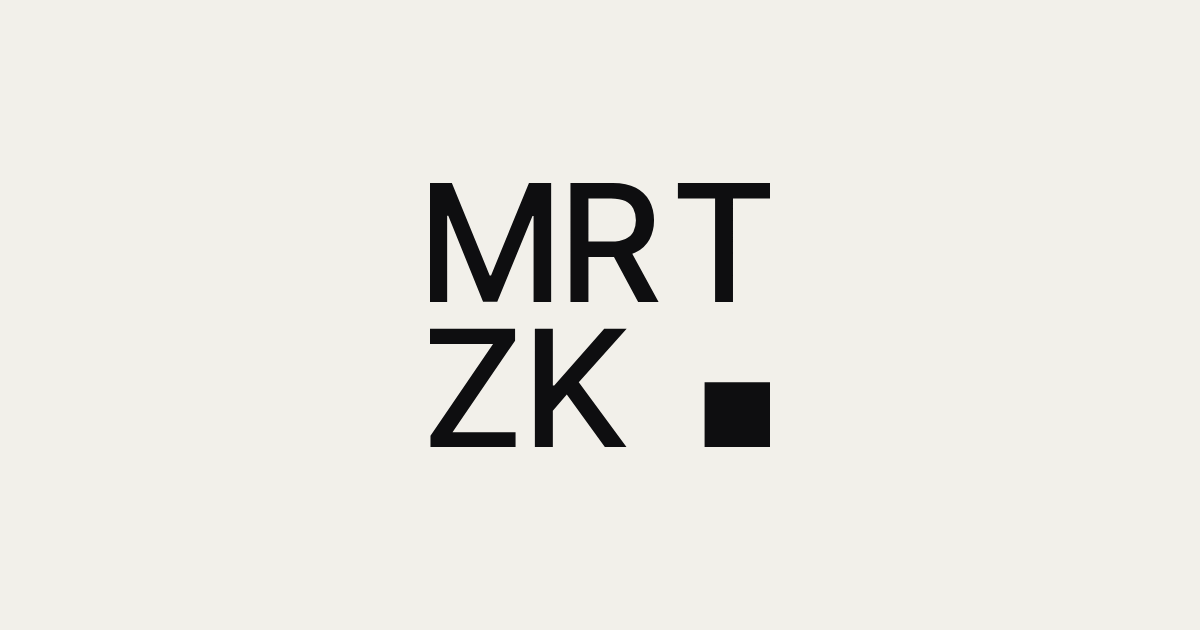
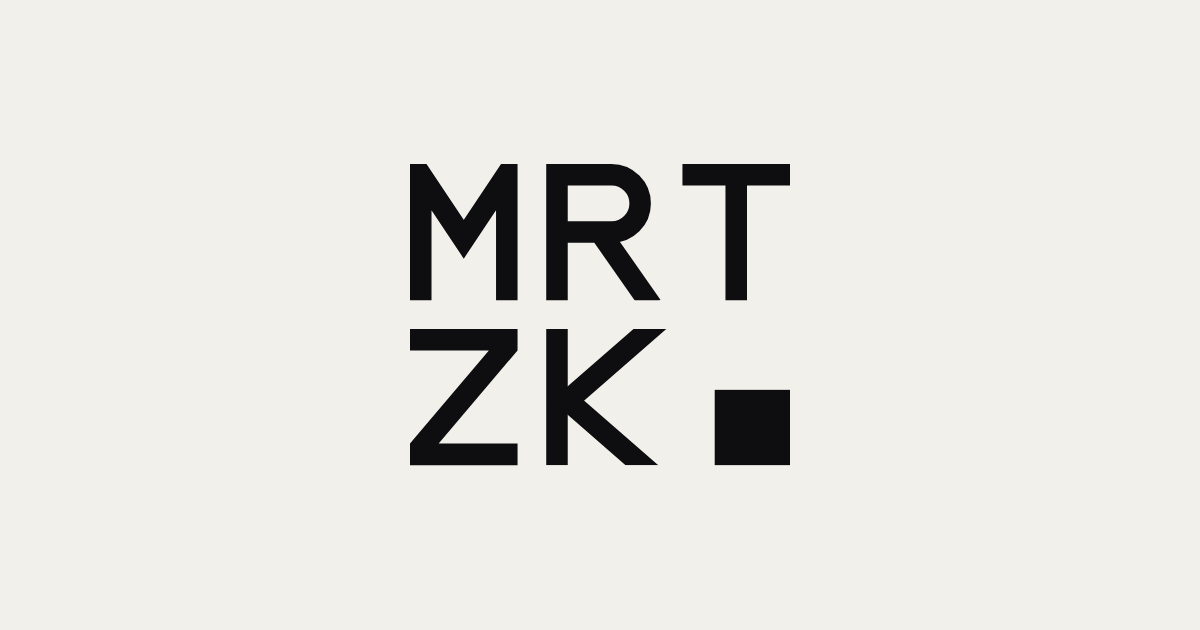
Use the original MRTZK monogram SVG files
Replace the redrawn approximation with the supplied mark and tile
SVGs in the favicon, icons, share image and on-page logo.

Claude-Session: https://claude.ai/code/session_01DwrwhGqewnAYTXEkSiZ8Jd

diff --git a/index.html b/index.html
@@ -47,9 +47,22 @@
     </nav>
   </header>
 
-  <!-- MRT/ZK grid monogram, defined once and reused -->
+  <!-- MRT/ZK grid monogram (from assets/logo-mark.svg), defined once and reused -->
   <svg width="0" height="0" style="position:absolute" aria-hidden="true">
-    <symbol id="mark" viewBox="0 0 228.74 178.00"><path fill="currentColor" d="M0 0H14.71L40.16 62.17H41.07L66.58 0H81.5V80H69.69V22.12H68.94L45.26 79.89H35.7L12.3 22.07H11.54V80H0ZM94.5 80V0H123.07Q132.36 0 138.48 3.19Q144.6 6.39 147.66 12.05Q150.72 17.72 150.72 25.13Q150.72 32.43 147.66 38.01Q144.6 43.6 138.48 46.66Q137.35 47.19 136.11 47.68L153.78 80H140.03L123.77 49.72Q123.39 49.72 122.96 49.72H106.58V80ZM106.58 39.41H121.83Q127.79 39.41 131.47 37.69Q135.15 35.97 136.84 32.81Q138.53 29.64 138.53 25.13Q138.53 20.56 136.81 17.26Q135.09 13.96 131.42 12.16Q127.74 10.36 121.78 10.36H106.58ZM166.78 10.36V0H228.74V10.36H203.83V80H191.8V10.36ZM0.32 178V170L42.42 108.36H0V98H57.23V106.05L15.14 167.64H57.56V178ZM70.56 178V98H82.64V136.23H83.6L117.21 98H132.3L100.09 133.97L132.46 178H117.91L92.03 142.3L82.64 153.19V178ZM184.74 134h44v44h-44z"/></symbol>
+    <symbol id="mark" viewBox="-15 -15 530 420">
+      <clipPath id="mrtzk-rows"><rect x="-60" y="-15" width="640" height="190"/><rect x="-60" y="215" width="640" height="190"/></clipPath>
+      <g clip-path="url(#mrtzk-rows)" fill="none" stroke="currentColor" stroke-width="30" stroke-linecap="butt" stroke-linejoin="miter" stroke-miterlimit="10">
+        <path d="M0,190 V0 L60,90 L120,0 V190"/>
+        <path d="M190,190 V0 H266 A40,40 0 0 1 266,80 H190 M250,80 L322,183"/>
+        <path d="M365,0 H515 M440,0 V190"/>
+        <path d="M190,205 V415"/>
+        <path d="M337,200 L205,315 L337,430"/>
+      </g>
+      <g fill="currentColor">
+        <polygon points="-15,215 135,215 135,245 25,375 135,375 135,405 -15,405 -15,375 95,245 -15,245"/>
+        <rect x="410" y="300" width="105" height="105"/>
+      </g>
+    </symbol>
   </svg>
 
   <main id="top">

diff --git a/style.css b/style.css
@@ -251,7 +251,7 @@ footer {
   width: 32px; height: 32px; border-radius: 22%;
   background: var(--paper); color: var(--ink); flex: none;
 }
-.badge svg { width: 62.5%; height: 62.5%; display: block; }
+.badge svg { width: 61%; height: auto; aspect-ratio: 530 / 420; display: block; }
 .badge.small { width: 20px; height: 20px; }
 .badge.big { width: clamp(96px, 11vw, 136px); height: clamp(96px, 11vw, 136px); box-shadow: 0 0 0 1px rgba(242,240,234,.08), 0 0 80px rgba(242,240,234,.12); }
 .badge.huge { width: 44%; height: auto; aspect-ratio: 1; }
